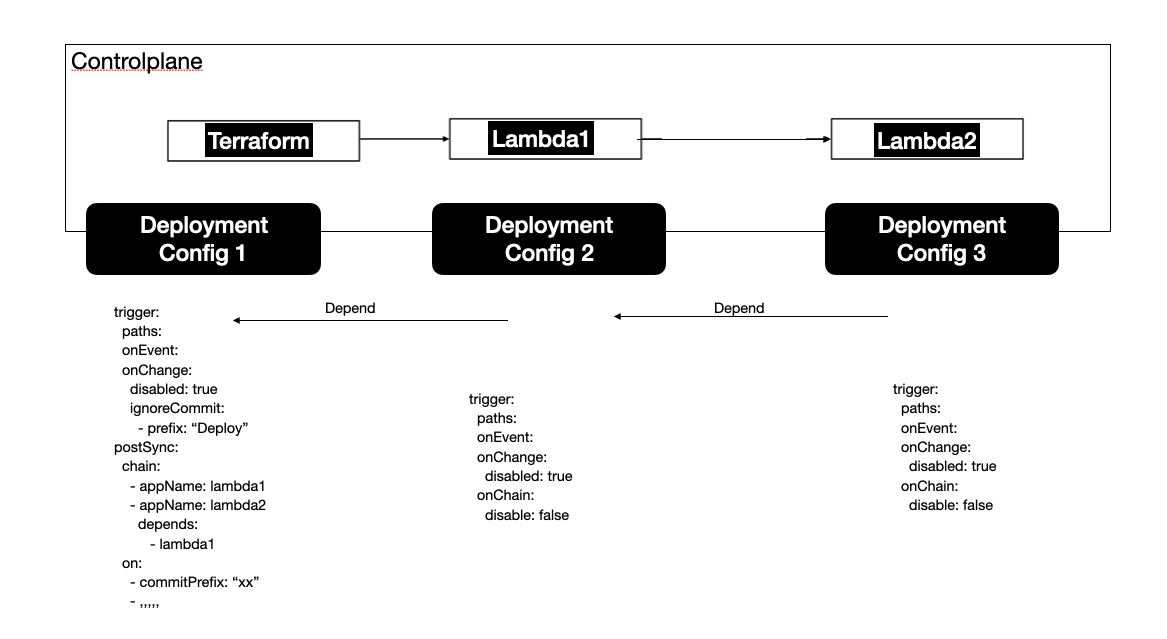
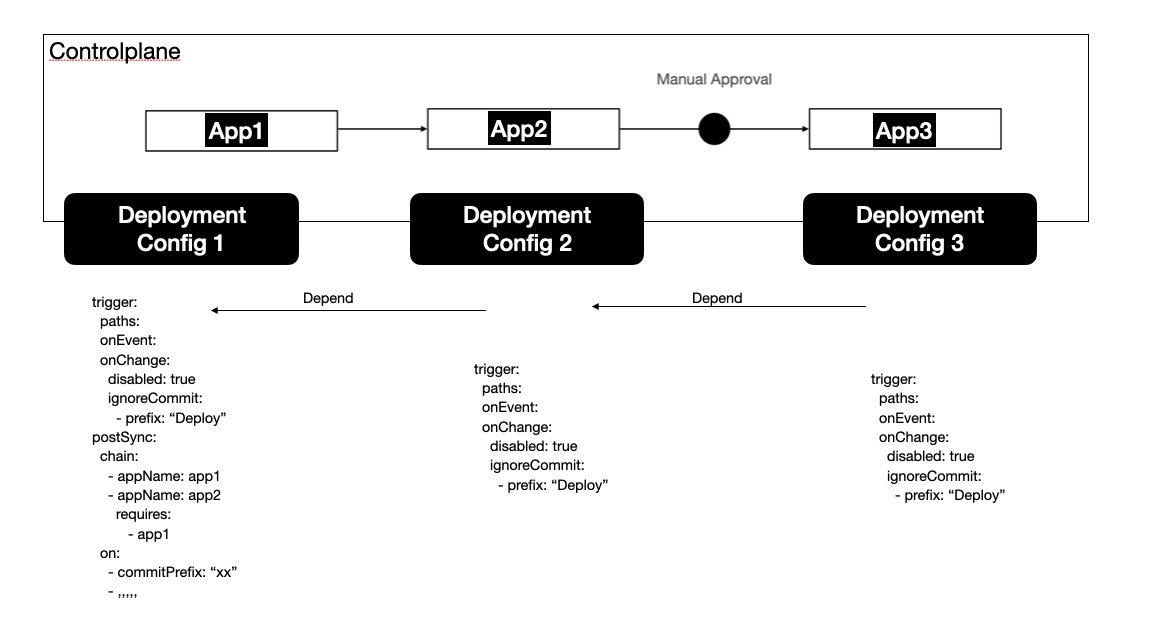
Rename

diff --git a/docs/rfcs/0007-deployment-flow.md b/docs/rfcs/0007-deployment-flow.md
@@ -54,11 +54,11 @@ spec:
   postSync:
     flow:
       graph:
-        - appName: lambda1
+        - appName: app1
           requireApproval: true # add wait approval stage to the lambda 1 deployment pipeline on planning 
-        - appName: lambda2
+        - appName: app2
           depends:
-            - lambda1
+            - app1
       conditions:
         - commitPrefix: “xx”
         - ...
